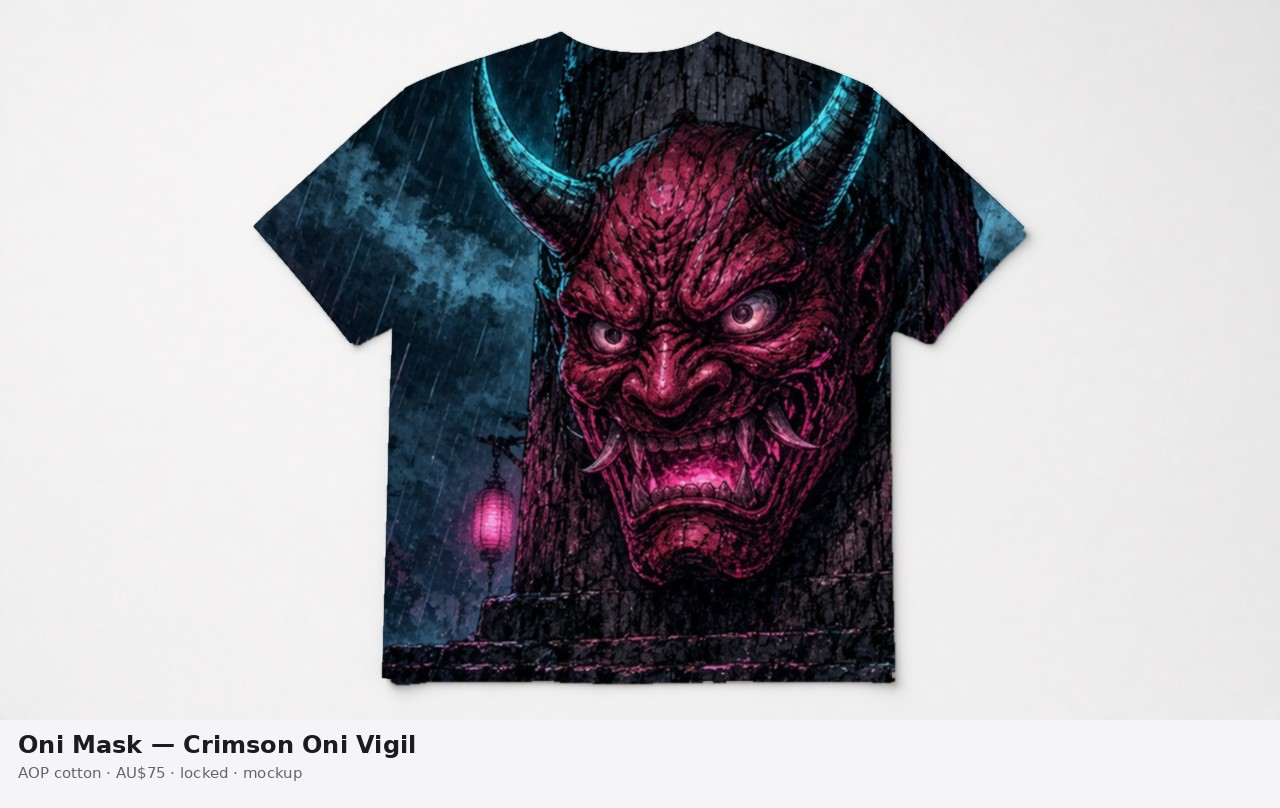
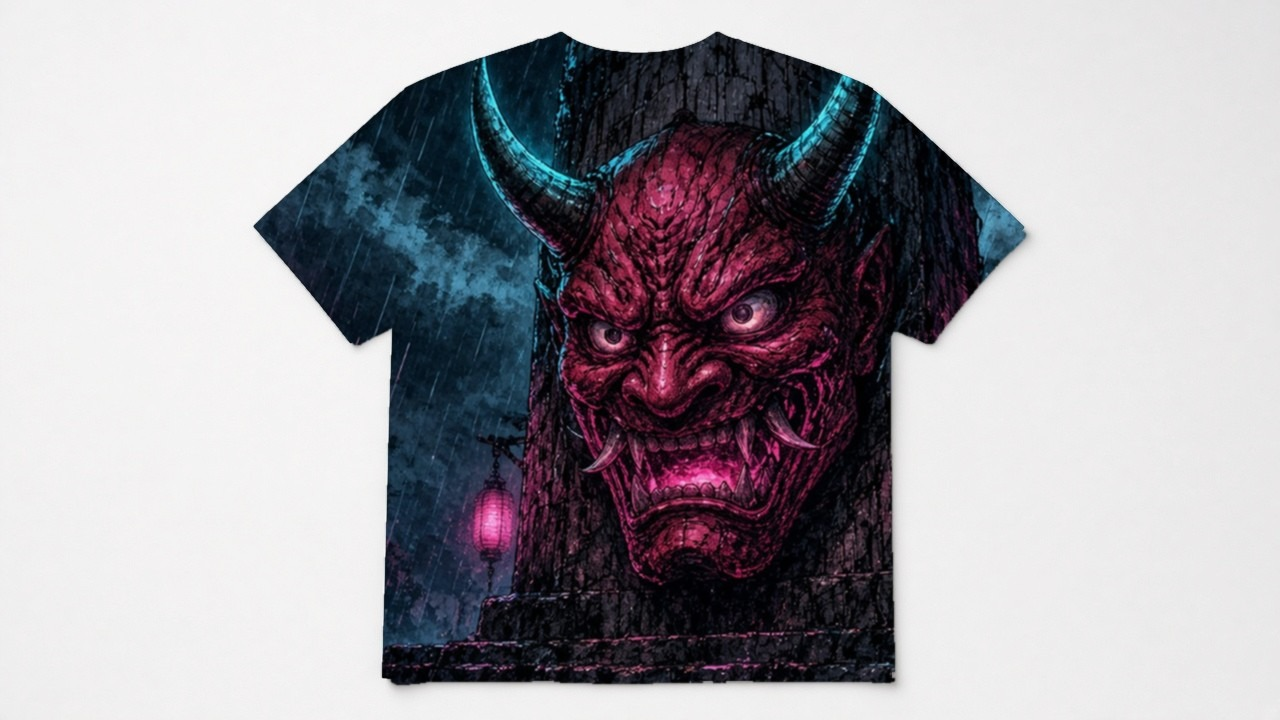
Crop the old price captions off the Printful mockups.
The photos still printed the Etsy ladder. The page is the only price: poly AU$65 (2XL AU$69), cotton AU$71 (2XL AU$75), chest AU$47.

Changed region(s): [[0.0, 0.0306, 0.8125, 0.9778]]

diff --git a/shop/public/css/shop.css b/shop/public/css/shop.css
@@ -197,7 +197,7 @@ p { margin: 0; }
 
 .art {
   position: relative;
-  aspect-ratio: 1280 / 808;
+  aspect-ratio: 1280 / 720;
   background: #1a1a1a;
   overflow: hidden;
   border: 1px solid var(--line);

diff --git a/shop/tests/test_store.py b/shop/tests/test_store.py
@@ -22,6 +22,7 @@ from store.catalog import (  # noqa: E402
     public_catalog,
     quote_lines,
     settle,
+    unit_cents,
     validate_customer,
 )
 from store.checkout import checkout_mode, checkout_public, place_order, stripe_fields  # noqa: E402
@@ -52,6 +53,31 @@ def restore_env(saved):
 def clear_payment_env():
     for key in ENV_KEYS:
         os.environ.pop(key, None)
+
+
+def jpeg_size(path: Path) -> tuple[int, int]:
+    """Read width and height from a JPEG SOF marker. Tests stay on the stdlib."""
+    data = path.read_bytes()
+    if data[:2] != b"\xff\xd8":
+        raise AssertionError(f"{path.name} is not a JPEG")
+    index = 2
+    while index + 9 < len(data):
+        if data[index] != 0xFF:
+            index += 1
+            continue
+        marker = data[index + 1]
+        if marker in (0xC0, 0xC1, 0xC2):
+            height = int.from_bytes(data[index + 5:index + 7], "big")
+            width = int.from_bytes(data[index + 7:index + 9], "big")
+            return width, height
+        if marker in (0xD8, 0xD9) or 0xD0 <= marker <= 0xD7:
+            index += 2
+            continue
+        length = int.from_bytes(data[index + 2:index + 4], "big")
+        if length < 2:
+            break
+        index += 2 + length
+    raise AssertionError(f"{path.name} has no SOF marker")
 
 
 class CopyAndPriceTests(unittest.TestCase):
@@ -109,6 +135,24 @@ class CopyAndPriceTests(unittest.TestCase):
             cotton = ROOT / "public" / "mockups" / f"{design['slug']}-aop-cotton.jpg"
             self.assertTrue(cotton.is_file())
             self.assertEqual(design["image"], url)
+
+    def test_mockups_drop_the_price_caption_and_2xl_stays_the_surcharge(self):
+        catalog = load_catalog()
+        ronin = next(item for item in catalog["products"] if item["slug"] == "crimson-sun-last-ronin")
+        self.assertEqual(unit_cents(catalog, ronin, "poly", "M"), 6500)
+        self.assertEqual(unit_cents(catalog, ronin, "poly", "2XL"), 6900)
+        self.assertEqual(unit_cents(catalog, ronin, "cotton", "M"), 7100)
+        self.assertEqual(unit_cents(catalog, ronin, "cotton", "2XL"), 7500)
+        self.assertNotEqual(unit_cents(catalog, ronin, "cotton", "2XL"), 7900)
+        self.assertEqual(unit_cents(catalog, ronin, "chest", "XS"), 4700)
+        self.assertEqual(unit_cents(catalog, ronin, "chest", "2XL"), 5100)
+        self.assertEqual(unit_cents(catalog, ronin, "chest", "3XL"), 5400)
+        css = (ROOT / "public" / "css" / "shop.css").read_text(encoding="utf-8")
+        self.assertIn("aspect-ratio: 1280 / 720", css)
+        mockups = list((ROOT / "public" / "mockups").glob("*-aop-*.jpg"))
+        self.assertEqual(len(mockups), 16)
+        for path in mockups:
+            self.assertEqual(jpeg_size(path), (1280, 720), path.name)
 
     def test_lanes_are_data_not_a_fixed_page(self):
         public = public_catalog(checkout_public())

diff --git a/shop/BEFORE-PUBLISH.md b/shop/BEFORE-PUBLISH.md
@@ -10,7 +10,7 @@ Jason still needs to confirm these. They are not invented on the site.
 Also still open:
 
 - This server stores the order. It does not send the “we’ll email when it ships” message itself.
-- Shirt photos are the Printful mockups in `public/mockups/{slug}-aop-poly.jpg` and `{slug}-aop-cotton.jpg`. Pin crops for six designs are in the same folder.
+- Shirt photos are the Printful mockups in `public/mockups/{slug}-aop-poly.jpg` and `{slug}-aop-cotton.jpg`, cropped to 1280×720 so the caption strip is gone. The page price is the only price. Do not put the Printful caption (old AU$69 / AU$75) back on the photo. Pin crops for six designs are in the same folder and are not gallery tiles.
 - Scene sentences live on each product in `catalog.json`. They were carried from the Etsy listing pack into Marketing’s blurb template. Marketing can replace `products.*.scene`.
 - The live collection nav label is Full Bleed. Blackletter, As High As Fuel, Brush & Smoke, Living Screens, and Night Shift are upcoming collection pages. “As High As Fuel” is the stoner lane, not a priced product. Night Shift is seasonal, not an adults-only lane.
 - Remove `<meta name="robots" content="noindex">` when payments are on and the shop should be indexed. Demo and off modes keep the shop out of search.
